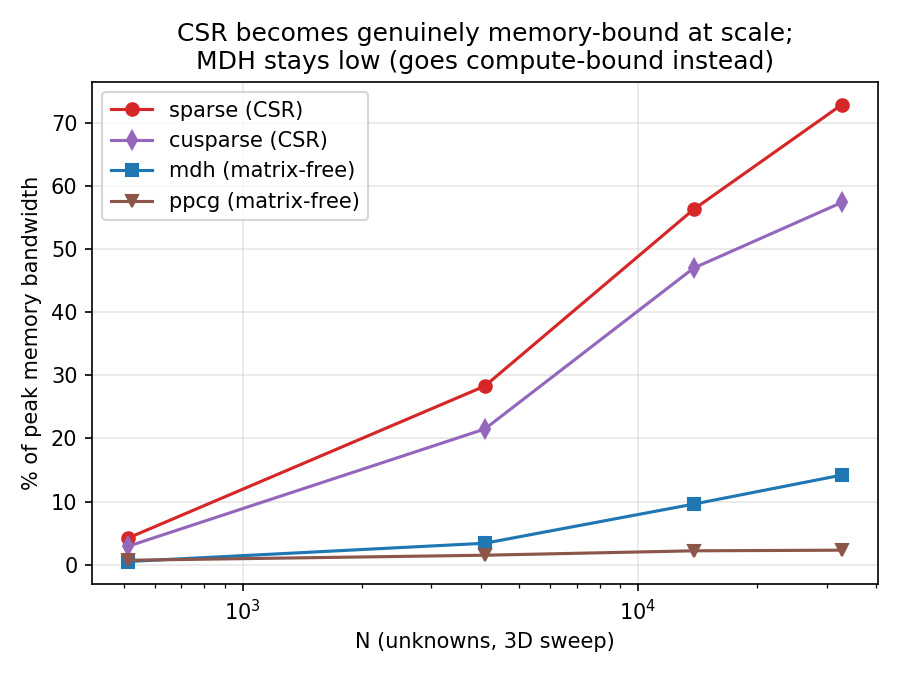
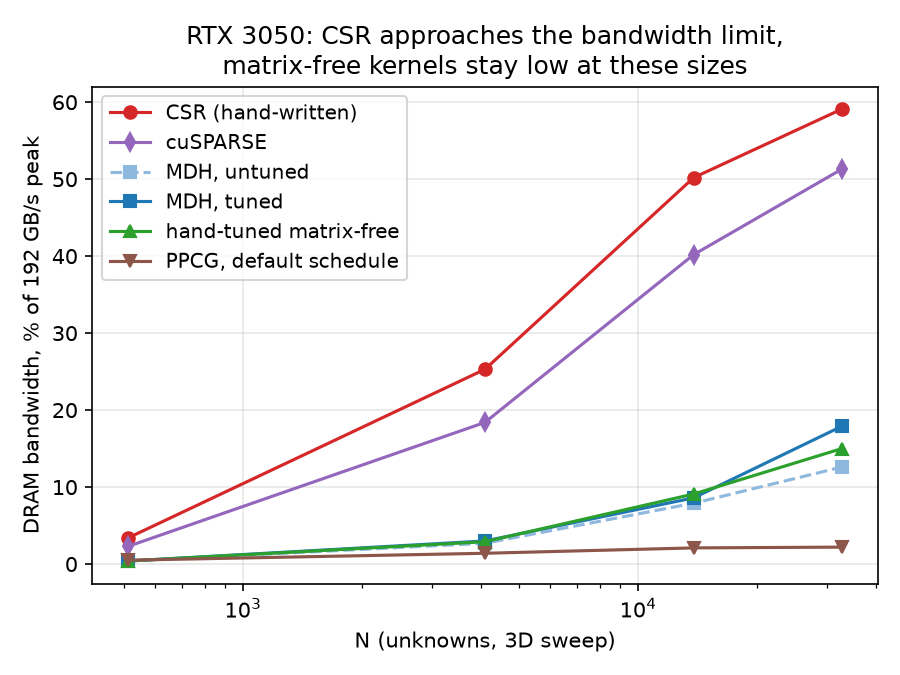
Regenerate Figure 4: DRAM bandwidth against the 192 GB/s peak, with tuned MDH and hand-tuned kernels; add the bandwidth results note

diff --git a/figures/plot_all.py b/figures/plot_all.py
@@ -77,24 +77,26 @@ fig.savefig("fig3_weak_scaling_efficiency.png")
 plt.close(fig)
 
 # ---------------------------------------------------------------------
-# Figure 4: roofline, % of peak bandwidth vs N -- source: ../roofline/results_3d.md
+# Figure 4: DRAM bandwidth reached vs N (3D), in percent of the 192 GB/s theoretical peak
+# source: ../roofline/results_bandwidth_3d.md (raw Nsight Compute outputs)
 # ---------------------------------------------------------------------
 fig, ax = plt.subplots(figsize=(6, 4.5))
 n_rl = [512, 4096, 13824, 32768]
-sparse_bw = [4.2, 28.3, 56.3, 72.9]
-cusparse_bw = [2.9, 21.5, 47.0, 57.4]
-mdh_bw = [0.5, 3.4, 9.6, 14.2]
-ppcg_bw = [0.7, 1.5, 2.2, 2.3]
-
-ax.plot(n_rl, sparse_bw, "o-", label="sparse (CSR)", color="#d62728")
-ax.plot(n_rl, cusparse_bw, "d-", label="cusparse (CSR)", color="#9467bd")
-ax.plot(n_rl, mdh_bw, "s-", label="mdh (matrix-free)", color="#1f77b4")
-ax.plot(n_rl, ppcg_bw, "v-", label="ppcg (matrix-free)", color="#8c564b")
+series = [
+    ("CSR (hand-written)", [3.4, 25.3, 50.2, 59.1], "o-", "#d62728"),
+    ("cuSPARSE", [2.3, 18.4, 40.2, 51.3], "d-", "#9467bd"),
+    ("MDH, untuned", [0.4, 2.7, 7.9, 12.6], "s--", "#8fb8de"),
+    ("MDH, tuned", [0.4, 3.0, 8.6, 17.9], "s-", "#1f77b4"),
+    ("hand-tuned matrix-free", [0.4, 2.9, 9.1, 15.0], "^-", "#2ca02c"),
+    ("PPCG, default schedule", [0.5, 1.4, 2.1, 2.2], "v-", "#8c564b"),
+]
+for label, y, style, color in series:
+    ax.plot(n_rl, y, style, label=label, color=color)
 ax.set_xscale("log")
 ax.set_xlabel("N (unknowns, 3D sweep)")
-ax.set_ylabel("% of peak memory bandwidth")
-ax.set_title("CSR becomes memory-bound at scale;\nMDH stays low (goes compute-bound instead)")
-ax.legend()
+ax.set_ylabel("DRAM bandwidth, % of 192 GB/s peak")
+ax.set_title("RTX 3050: CSR approaches the bandwidth limit,\nmatrix-free kernels stay low at these sizes")
+ax.legend(fontsize=9.5)
 ax.grid(alpha=0.3)
 fig.tight_layout()
 fig.savefig("fig4_roofline_bandwidth_vs_n.png")

diff --git a/roofline/results_bandwidth_3d.md b/roofline/results_bandwidth_3d.md
@@ -1,0 +1,16 @@
+# Measured DRAM bandwidth, 3D matrix-vector product (RTX 3050 Laptop)
+
+DRAM throughput of one steady-state matvec launch per size (Nsight Compute, metric `dram__bytes.sum.per_second`), and the same value as a percentage of the 192 GB/s
+theoretical peak (128-bit bus, 6001 MHz memory clock). Nsight's own "percent of peak sustained" corresponds to about 171 GB/s and is not used here.
+CSR, cuSPARSE, MDH untuned and PPCG default come from `results_3d.md`; MDH tuned and hand-tuned come from `profile_roofline_3d_tuned_final.sh`.
+
+| kernel | N=512 | N=4096 | N=13824 | N=32768 |
+|---|---|---|---|---|
+| CSR | 6.61 GB/s (3.4%) | 48.52 GB/s (25.3%) | 96.36 GB/s (50.2%) | 113.55 GB/s (59.1%) |
+| cuSPARSE | 4.51 GB/s (2.3%) | 35.36 GB/s (18.4%) | 77.18 GB/s (40.2%) | 98.52 GB/s (51.3%) |
+| MDH untuned | 0.71 GB/s (0.4%) | 5.11 GB/s (2.7%) | 15.10 GB/s (7.9%) | 24.26 GB/s (12.6%) |
+| PPCG default | 1.02 GB/s (0.5%) | 2.63 GB/s (1.4%) | 3.98 GB/s (2.1%) | 4.30 GB/s (2.2%) |
+| MDH tuned | 0.78 GB/s (0.4%) | 5.73 GB/s (3.0%) | 16.50 GB/s (8.6%) | 34.37 GB/s (17.9%) |
+| hand-tuned | 0.80 GB/s (0.4%) | 5.59 GB/s (2.9%) | 17.49 GB/s (9.1%) | 28.87 GB/s (15.0%) |
+
+The SM throughput of the same launches (MDH tuned 0.8, 6.0, 16.7, 31.0%; hand-tuned 2.9, 10.2, 20.3, 20.1%) is in `mdh_3d_*_tuned_ncu.txt` and `ht_3d_*_ncu.txt`.
